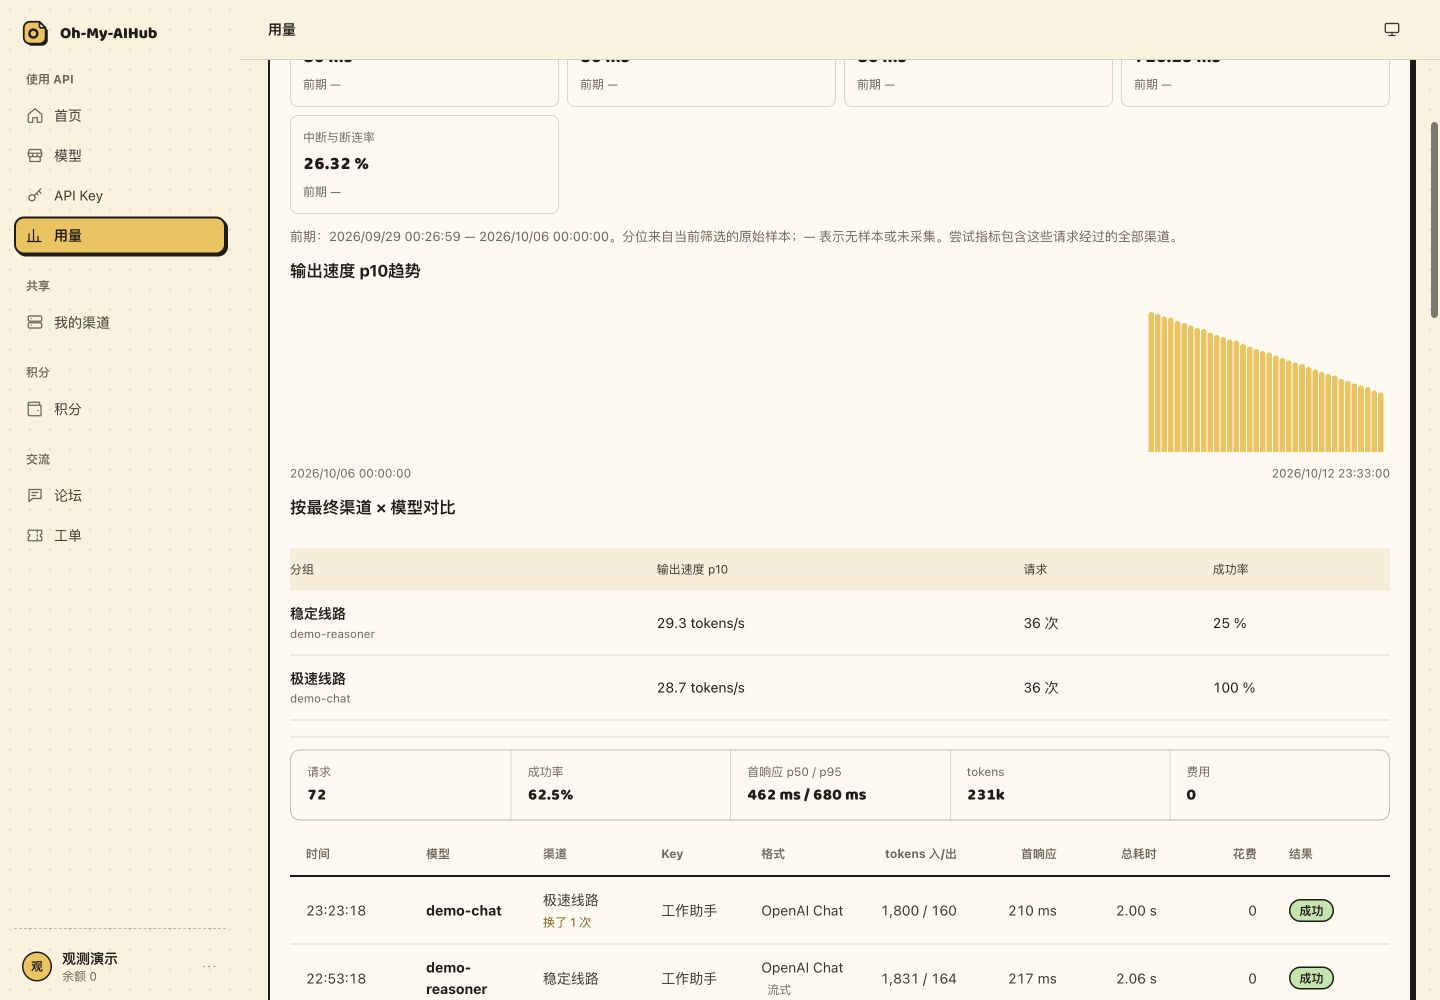
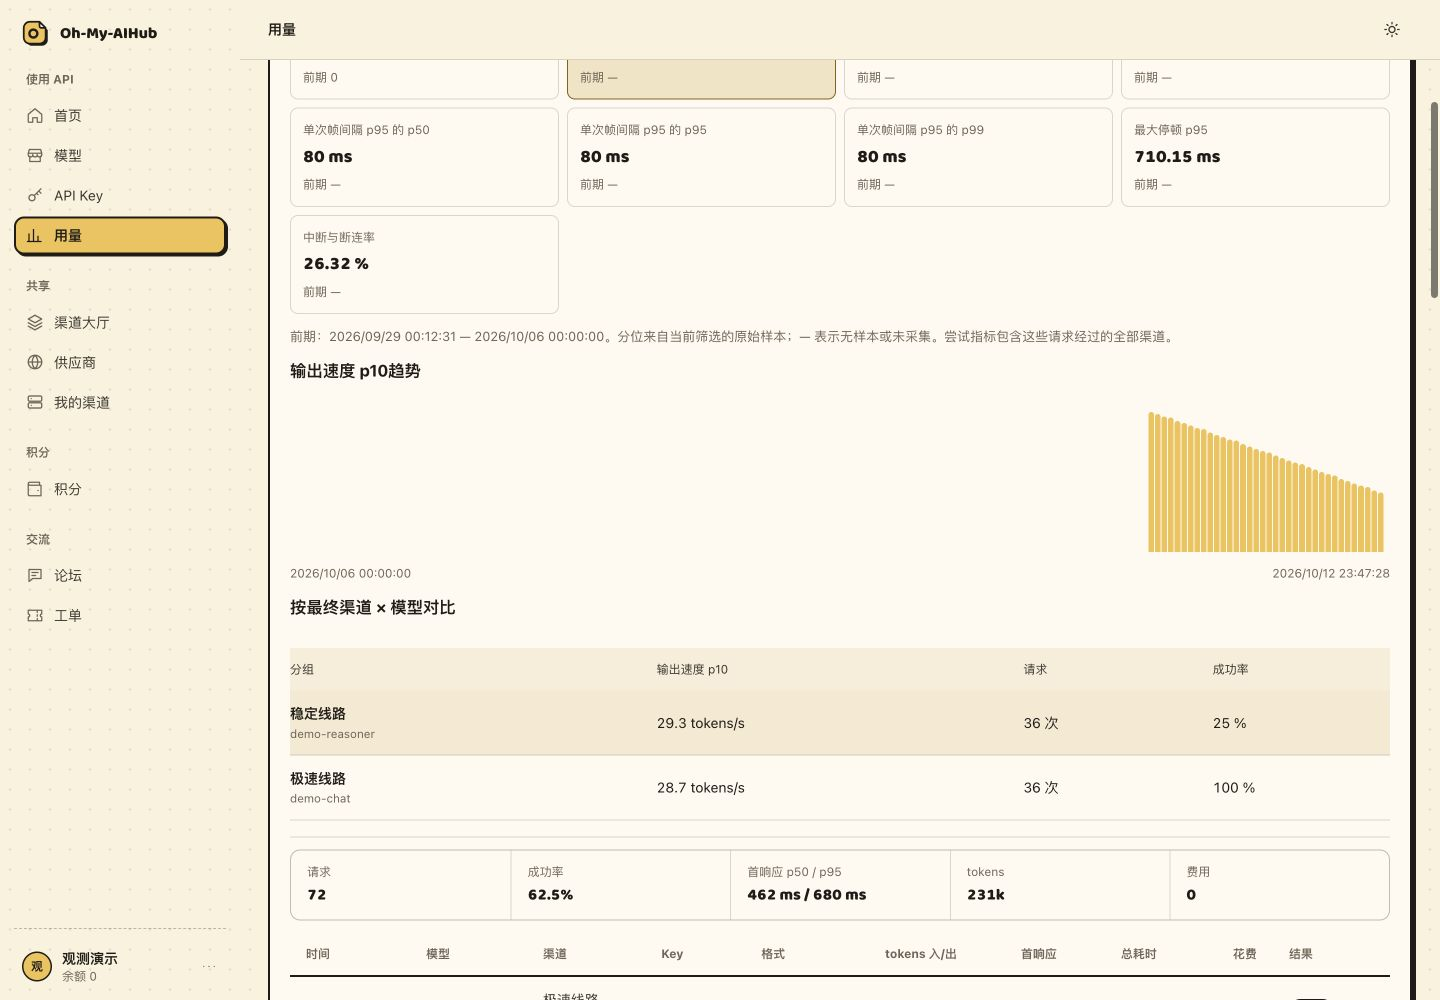
feat: integrate supplier feature and finish diagnostic filtering

diff --git a/frontend/src/calls/CallFilterBar.tsx b/frontend/src/calls/CallFilterBar.tsx
@@ -348,6 +348,15 @@ export function CallFilterBar({
             />
           </label>
           <label>
+            尝试渠道 ID
+            <input
+              className="input"
+              aria-label="尝试渠道 ID"
+              value={value.attempt_channel_id ?? ''}
+              onChange={(e) => set({ attempt_channel_id: e.target.value.trim() })}
+            />
+          </label>
+          <label>
             上游状态码
             <input
               className="input"
@@ -403,7 +412,7 @@ export function CallFilterBar({
               onChange={(e) => set({ to: e.target.value ? new Date(e.target.value).toISOString() : '' })}
             />
           </label>
-          <Button variant="quiet" onClick={() => onChange({ ...emptyCallFilters })}>
+          <Button variant="quiet" onClick={() => { setTag(''); setRequestId(''); setIdError(''); onChange({ ...emptyCallFilters }) }}>
             清除筛选
           </Button>
         </div>

diff --git a/frontend/src/calls/AttemptTimeline.tsx b/frontend/src/calls/AttemptTimeline.tsx
@@ -1,6 +1,6 @@
 import type { CallAttempt, CallDetail } from '../api/types'
 import { formatMs } from '../money/format'
-import { Badge } from '../ui'
+import { Badge, CopyButton } from '../ui'
 import { endReasonLabel } from './labels'
 import { attemptSegments, attemptSucceeded, segmentLabels, timelineScale } from './timeline'
 
@@ -21,6 +21,7 @@ function AttemptRow({
       <div className="attempt-head">
         <span className="attempt-index">#{index + 1}</span>
         <strong>{attempt.channel?.name ?? '未选到渠道'}</strong>
+        {attempt.channel && <CopyButton iconOnly label="复制尝试渠道 ID" value={attempt.channel.id} />}
         {ok ? (
           <Badge tone="success">{attempt.status_code ?? ''} 成功</Badge>
         ) : (

diff --git a/docs/runbooks/observability.md b/docs/runbooks/observability.md
@@ -2,7 +2,7 @@
 
 ## 从问题找到调用
 
-用量页与管理员调用页先选时间窗，再按结果、协议、模型、Key、标签、耗时/token/实际扣费范围、流式、尝试次数、上游状态/错误、交付、用量观测或记账筛选。分析与调用列表使用同一筛选；点击分组或时间桶下钻，返回按钮清除下钻。按最终渠道分组的是请求集合，其尝试成功率包含该集合经过的全部上游；要排查具体失败尝试，使用「尝试渠道 + 状态/错误」筛选，多个条件要求命中同一次尝试。管理员可以再按账户拆分。
+用量页与管理员调用页先选时间窗，再按结果、协议、模型、Key、标签、耗时/token/实际扣费范围、流式、尝试次数、上游状态/错误、交付、用量观测或记账筛选。分析与调用列表使用同一筛选；点击分组或时间桶下钻，返回按钮清除下钻。按最终渠道分组的是请求集合，其尝试成功率包含该集合经过的全部上游；要排查具体失败尝试，从尝试时间线复制渠道 ID，使用「尝试渠道 ID + 状态/错误」筛选，多个条件要求命中同一次尝试。管理员可以再按账户拆分。
 
 分析直接从原始调用求分位数，不平均已聚合分位数。空时间桶保留，计数为 0、分位为未知。分析限制 366 天、最多 1000 分组及约 1000 时间桶，超出时缩短时间或增加筛选；不会只取前 N 组冒充全部。实时模式保持原时间窗长度并将结束时间向现在推进；按时间下钻后固定选定区间。前期取紧邻当前窗口的等长区间，保留其余筛选。
 
